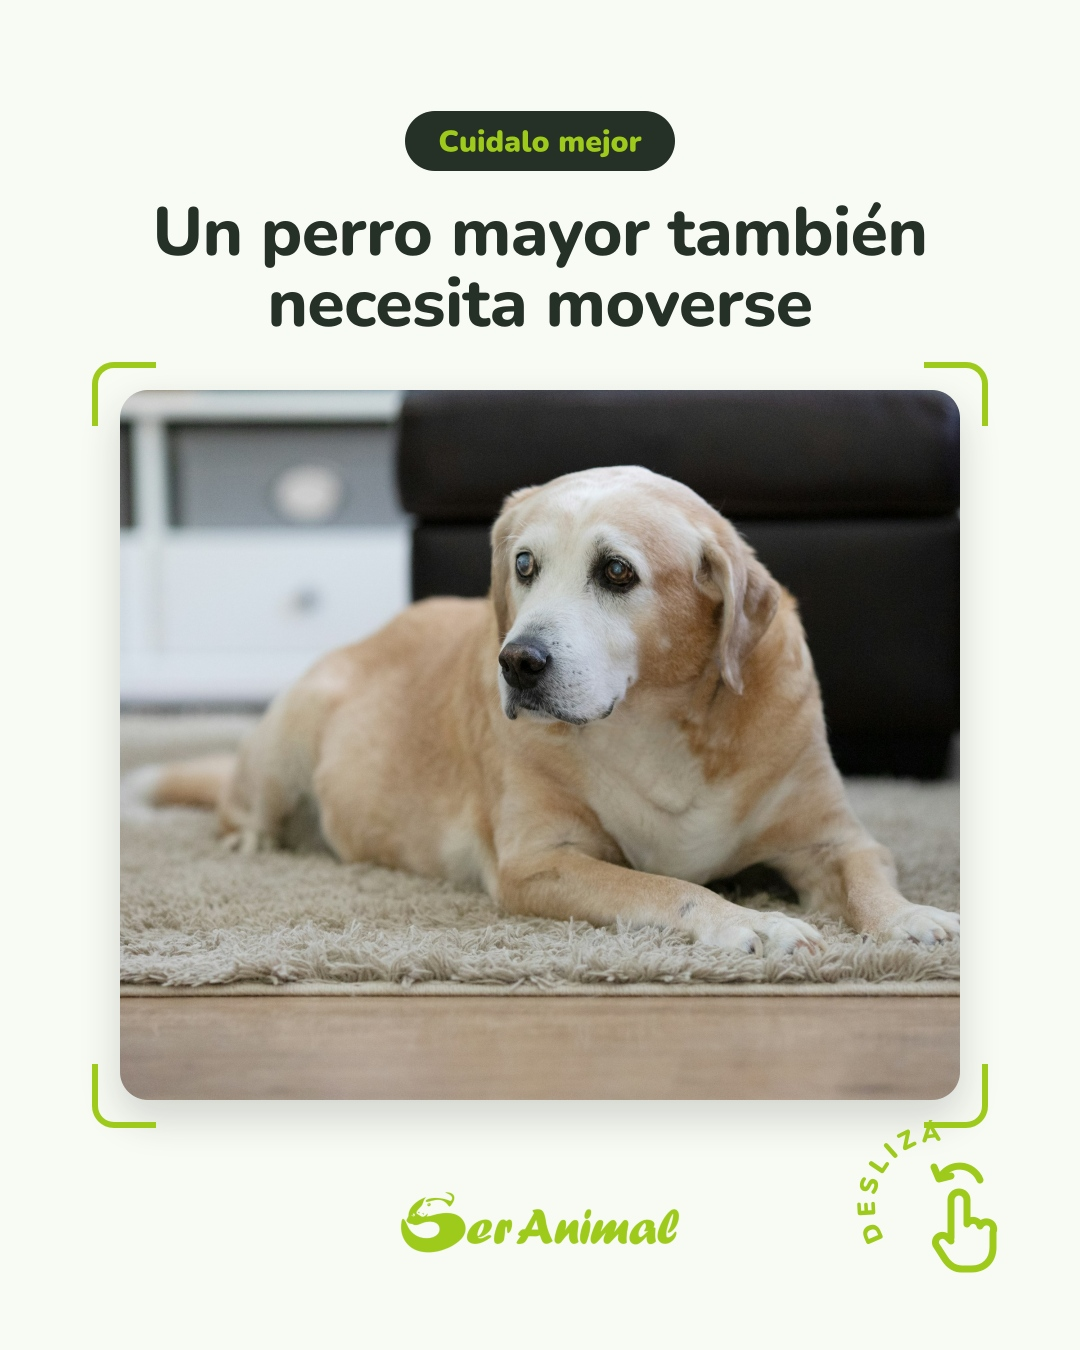
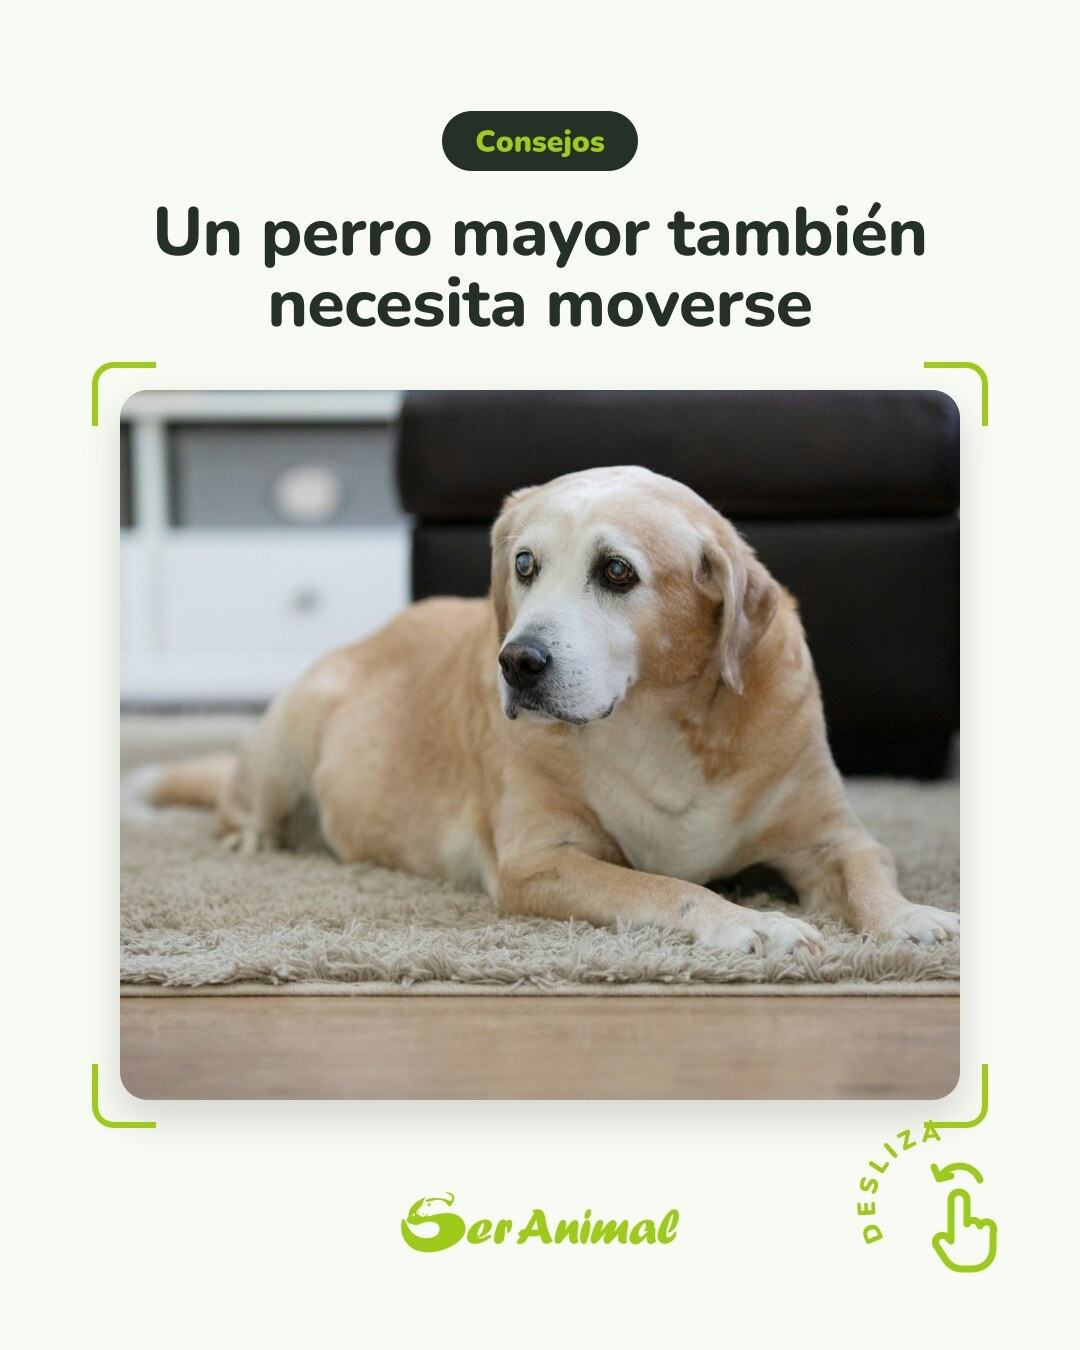
Reemplaza «Cuidalo mejor» por «Consejos» y el pilar «En la tienda» por «Productos»
- Etiqueta nueva etiqueta-consejos en marca/elementos (regenerados SVG, PNG y
  catálogo); se borran etiqueta-cuidalo-mejor y etiqueta-en-la-tienda.
- Regla de tono: nunca retar ni juzgar al dueño (CLAUDE.md, lineamientos y
  Studio).
- Se vuelven a renderizar calor, comedero lento, historias y los ejemplos de
  la guía.

Claude-Session: https://claude.ai/code/session_01UFgb9cPkwjsoNhDLqTBRZN

Changed region(s): [[0.3667, 0.0622, 0.6417, 0.1244]]

diff --git a/studio/functions/api/generate.ts b/studio/functions/api/generate.ts
@@ -13,6 +13,7 @@ const SYSTEM = `Sos el equipo de contenido de Ser Animal, una tienda especializa
 TONO
 - Cercano, claro y concreto, como hablaría alguien del local. Español rioplatense con voseo: «elegí», «buscá», «sumate», «contanos».
 - Mayúscula solo al principio de títulos. Sin exclamaciones de más ni frases vacías («¡¡Elevá la experiencia de tu mascota!!» está mal).
+- Nunca retes ni juzgues al dueño (nada de «Cuidalo mejor» ni frases que den a entender que no cuida a su mascota): los consejos se dan en positivo.
 - No nombres marcas de otras empresas en las slides: el producto se nombra por lo que es (por ejemplo «Juguete clásico de caucho»), aunque el usuario escriba la marca.
 - NUNCA se publican precios de productos, ni en las slides ni en el caption, aunque el usuario los mencione. Tampoco inventes descuentos, plazos, stock ni características. Los únicos montos permitidos son los de los textos fijos de abajo (envíos y pedido programado).
 - Datos de salud o comportamiento animal: solo los que sean ampliamente aceptados por veterinarios. Si no estás seguro de un dato, no lo uses. Nada de diagnósticos ni dosis; ante síntomas, «consultá a tu veterinario».
@@ -51,7 +52,7 @@ ESTRUCTURA DEL CARRUSEL
 - En carruseles de 3 slides o más, la última slide es "cierre": una pregunta o invitación a comentar en "titulo" (máx. 30 caracteres) y una frase corta en "texto". Nunca pongas el WhatsApp, teléfonos ni «pedilo» en las slides: el feed es estético; esos datos van solo en el caption.
 - Fondos de las slides intermedias y del cierre: alternás "blanco" y "verde", empezando por "blanco" después de la portada. El cierre va siempre en "verde".
 - "numero" vale 0 cuando no se usa.
-- "etiqueta": la serie del post, que se ve como pastilla en los estilos "foto-panel", "texto-editorial", "foto-enmarcada", "retrato", "producto-claro" y "aviso". Valores: "sabias-que" (curiosidades), "cuidalo-mejor" (consejos), "familia" (clientes y comunidad), "novedad" (producto nuevo), "aviso" (avisos) o "" (sin etiqueta). Usala en la portada; en las slides interiores, "". Los posts de producto van sin etiqueta (o "novedad" si el producto es nuevo): nunca escribas «En la tienda» en las slides.
+- "etiqueta": la serie del post, que se ve como pastilla en los estilos "foto-panel", "texto-editorial", "foto-enmarcada", "retrato", "producto-claro" y "aviso". Valores: "sabias-que" (curiosidades), "consejos" (consejos), "familia" (clientes y comunidad), "novedad" (producto nuevo), "aviso" (avisos) o "" (sin etiqueta). Usala en la portada; en las slides interiores, "". Los posts de producto van sin etiqueta (o "novedad" si el producto es nuevo): nunca escribas «En la tienda» en las slides.
 - "colores": "" salvo en "producto-ficha".
 - "especie": "perro", "gato", "roedor", "pajaro", "pez" o "". Ponela en "portada-globos", "texto-editorial", "mosaico" y "retrato" cuando el post es de una especie; si no, "".
 - Variá los estilos: no uses siempre el mismo tipo de portada. Los editoriales ("foto-titulo-arriba", "foto-titulo-abajo", "portada-globos", "foto-panel", "texto-editorial", "foto-enmarcada", "foto-cita", "mosaico") le dan aire de revista al feed, como el de Petz. Preferí fotos con personas y sus mascotas.

diff --git a/lineamientos/guia-instagram/index.html b/lineamientos/guia-instagram/index.html
@@ -288,13 +288,13 @@ Pedidos por WhatsApp: 091 380 000</pre>
       </article>
       <article class="pilar">
         <img src="img/p1-calor.jpg" alt="">
-        <div><h3>Cuidalo mejor</h3><span class="frec">1 por semana · carrusel</span>
+        <div><h3>Consejos</h3><span class="frec">1 por semana · carrusel</span>
           <p>Consejos prácticos y de temporada: calor, lluvia, higiene, alimentación. Ante síntomas, siempre «consultá a tu veterinario».</p>
-          <p><b>Portada:</b> pregunta enmarcada, pregunta en globos, foto con panel o foto enmarcada. <b>Etiqueta:</b> Cuidalo mejor.</p></div>
+          <p><b>Portada:</b> pregunta enmarcada, pregunta en globos, foto con panel o foto enmarcada. <b>Etiqueta:</b> Consejos.</p></div>
       </article>
       <article class="pilar">
         <img src="img/p4-producto.jpg" alt="">
-        <div><h3>En la tienda</h3><span class="frec">1 o 2 por semana</span>
+        <div><h3>Productos</h3><span class="frec">1 o 2 por semana</span>
           <p>Productos reales de Ser Animal: novedades, fichas con callouts y producto héroe. Solo datos confirmados, nunca precios ni «pedilo»: se muestran lindos, para inspirar.</p>
           <p><b>Portada:</b> foto de uso, foto limpia, producto héroe o producto sobre fondo claro. <b>Etiqueta:</b> ninguna; «Novedad» solo si el producto es nuevo.</p></div>
       </article>
@@ -307,7 +307,7 @@ Pedidos por WhatsApp: 091 380 000</pre>
     </div>
 
     <div class="ejemplo">
-      <h3>Ejemplo · Cuidalo mejor</h3>
+      <h3>Ejemplo · Consejos</h3>
       <p class="nota">Portada con foto real; después, una idea por slide alternando blanco y verde; cierre verde con una pregunta para comentar.</p>
       <div class="tira">
         <img src="img/calor-1.jpg" alt="Slide 1: ¿Hace demasiado calor para pasear?">
@@ -329,7 +329,7 @@ Pedidos por WhatsApp: 091 380 000</pre>
       </div>
     </div>
     <div class="ejemplo">
-      <h3>Ejemplo · En la tienda (el carrusel preferido)</h3>
+      <h3>Ejemplo · Productos (el carrusel preferido)</h3>
       <p class="nota">Portada linda con el producto en uso y el título bien legible; después, la ficha: el producto solo con sus colores, el nombre, una línea y los datos en pastillas. Sin precio.</p>
       <div class="tira cuatro">
         <img src="img/pechera-1.jpg" alt="Slide 1: Pechera y correa, con el título por detrás de las orejas del husky">
@@ -376,9 +376,9 @@ Pedidos por WhatsApp: 091 380 000</pre>
     <div class="semana">
       <div class="dia post"><b>Lunes</b><span>¿Sabías que…?</span></div>
       <div class="dia"><b>Martes</b><span>Historias: encuesta o pregunta</span></div>
-      <div class="dia post"><b>Miércoles</b><span>En la tienda</span></div>
+      <div class="dia post"><b>Miércoles</b><span>Productos</span></div>
       <div class="dia"><b>Jueves</b><span>Historias: producto en uso</span></div>
-      <div class="dia post"><b>Viernes</b><span>Cuidalo mejor</span></div>
+      <div class="dia post"><b>Viernes</b><span>Consejos</span></div>
       <div class="dia"><b>Sábado</b><span>Historias: compartir menciones</span></div>
       <div class="dia post"><b>Domingo</b><span>La familia Ser Animal</span></div>
     </div>

diff --git a/studio/src/spec.ts b/studio/src/spec.ts
@@ -54,13 +54,13 @@ export const NOMBRE_TIPO: Record<TipoSlide, string> = {
 };
 
 // Etiqueta de serie (pilar de contenido) y personaje de especie: los dos son opcionales ("").
-export const ETIQUETAS = ["", "aviso", "novedad", "sabias-que", "cuidalo-mejor", "familia"] as const;
+export const ETIQUETAS = ["", "aviso", "novedad", "sabias-que", "consejos", "familia"] as const;
 export const NOMBRE_ETIQUETA: Record<(typeof ETIQUETAS)[number], string> = {
   "": "Sin etiqueta",
   aviso: "Aviso",
   novedad: "Novedad",
   "sabias-que": "¿Sabías que…?",
-  "cuidalo-mejor": "Cuidalo mejor",
+  "consejos": "Consejos",
   familia: "La familia Ser Animal",
 };
 export const ESPECIES = ["", "perro", "gato", "roedor", "pajaro", "pez"] as const;

diff --git a/posts/2026-11-historias/fuente/index.html b/posts/2026-11-historias/fuente/index.html
@@ -73,7 +73,7 @@
   <img class="foto" src="assets/foto-lento.jpg" alt="">
   <div class="velo-arriba"></div>
   <div class="bloque">
-    <img class="etiqueta" src="assets/etiqueta-cuidalo-mejor.svg" alt="">
+    <img class="etiqueta" src="assets/etiqueta-consejos.svg" alt="">
     <div class="h" style="margin-top:34px">¿Tu perro come <em>muy rápido</em>?</div>
   </div>
   <div class="zona">Encuesta: Sí / No</div>

diff --git a/marca/elementos/generar.py b/marca/elementos/generar.py
@@ -39,8 +39,7 @@ ESPECIES = {
 }
 PILARES = {
     "sabias-que": "¿Sabías que…?",
-    "cuidalo-mejor": "Cuidalo mejor",
-    "en-la-tienda": "En la tienda",
+    "consejos": "Consejos",
     "familia": "La familia Ser Animal",
 }
 SOMBRA = '<filter id="sombra" x="-20%" y="-20%" width="140%" height="140%"><feDropShadow dx="0" dy="2" stdDeviation="3" flood-color="#000" flood-opacity=".35"/></filter>'

diff --git a/marca/elementos/README.md b/marca/elementos/README.md
@@ -17,7 +17,7 @@ Piezas fijas para que todos los posts usen exactamente los mismos recursos. Ver 
 | Callouts | `callout-vertical-*`, `callout-horizontal-*` | Ficha de producto: el punto toca el producto. Blanco sobre verde; oscuro sobre blanco. Se pueden rotar. Máximo 3 por slide. |
 | Chips de especie | `chip-perros`, `chip-gatos`, `chip-roedores`, `chip-pajaros`, `chip-peces` | Para indicar la especie del post. Es el único lugar donde van los colores de especie. |
 | Pastillas | `pastilla-seranimal`, `pastilla-whatsapp`, `pastilla-pedilo`, `pastilla-atencion` | Cierres y llamados a la acción. «Pedilo por WhatsApp» va en el producto sobre fondo claro (en redes nunca hay precios). |
-| Etiquetas | `etiqueta-aviso`, `etiqueta-novedad`, `etiqueta-sabias-que`, `etiqueta-cuidalo-mejor`, `etiqueta-en-la-tienda`, `etiqueta-familia` | Etiqueta de serie (una por pilar), arriba del título o arriba a la izquierda. Sirven sobre blanco, verde y foto. |
+| Etiquetas | `etiqueta-aviso`, `etiqueta-novedad`, `etiqueta-sabias-que`, `etiqueta-consejos`, `etiqueta-familia` | Etiqueta de serie (una por pilar), arriba del título o arriba a la izquierda. Sirven sobre blanco, verde y foto. |
 | Flechas | `flecha-circulo-blanco`, `-verde`, `-oscuro`, `-contorno`; `flecha-linea-oscura`, `-blanca` | Círculo: avanzar (estilo «foto con panel», en el borde entre foto y panel). Línea: solo en piezas sueltas sin «Deslizá» (nunca las dos indicaciones juntas). |
 | Personajes | `png/personaje-perro`, `-gato`, `-roedor`, `-pajaro`, `-pez` | Cabezas de las ilustraciones de especie, recortadas. Se asoman detrás de los globos de texto o van arriba en el texto editorial. Son PNG (ilustración a color). |
 | Asistente | `png/asistente-circulo.png` | Atención al cliente: siempre en círculo con borde verde. |

diff --git a/lineamientos/estilos-de-post.md b/lineamientos/estilos-de-post.md
@@ -162,7 +162,7 @@ Todos estos elementos están listos en **`marca/elementos/`** (SVG vectorial y P
 
 Inspirados en el feed de Petz (`lineamientos/referencias/`), pero con la marca de Ser Animal: verde, Nunito 900, DM Sans y los personajes de especie. Le dan al feed un aire de revista: mucho aire, globos y tarjetas blancas, palabras subrayadas y etiquetas de serie. Elementos nuevos: `etiqueta-<pilar>`, `flecha-circulo-*`, `flecha-linea-*` y `personaje-<especie>`.
 
-**Etiquetas de serie.** Cada pilar tiene su pastilla (`etiqueta-sabias-que`, `etiqueta-cuidalo-mejor`, `etiqueta-familia`), como «Guia de Raças» o «Assinatura Petz». Va arriba a la izquierda o arriba del título. Así el seguidor reconoce la serie de un vistazo. **Los posts de producto no llevan etiqueta:** nunca se pone «En la tienda» en las imágenes (solo «Novedad» si el producto es nuevo).
+**Etiquetas de serie.** Cada pilar tiene su pastilla (`etiqueta-sabias-que`, `etiqueta-consejos`, `etiqueta-familia`), como «Guia de Raças» o «Assinatura Petz». Va arriba a la izquierda o arriba del título. Así el seguidor reconoce la serie de un vistazo. **Nunca «Cuidalo mejor»** ni nada que suene a reto al dueño: la serie de consejos se llama «Consejos». **Los posts de producto no llevan etiqueta:** nunca se pone «En la tienda» en las imágenes (solo «Novedad» si el producto es nuevo).
 
 ### Estilo 9 · Pregunta en globos
 ![](estilos/9-pregunta-en-globos.jpg)

diff --git a/posts/2026-11-comedero-lento/texto.md b/posts/2026-11-comedero-lento/texto.md
@@ -1,9 +1,9 @@
 # Comedero lento
 
-**Pilar:** En la tienda. Reemplaza al alimento Brit Premium: la bolsa es toda marca y no se puede mostrar sin que se vea. **Formato:** carrusel de 3 slides, 1080×1350.
+**Pilar:** Productos. Reemplaza al alimento Brit Premium: la bolsa es toda marca y no se puede mostrar sin que se vea. **Formato:** carrusel de 3 slides, 1080×1350.
 1. Portada con foto y panel verde (estilo 10): «¿Tu perro come muy rápido?». Imagen de Higgsfield (Nano Banana Pro) con las fotos reales del comedero como referencia.
 2. Ficha de producto (estilo 18). Foto de estudio generada a partir de la foto real del comedero.
-3. Título editorial arriba sobre foto real (estilo 14), etiqueta «Cuidalo mejor»: «Comer más despacio *también es cuidarlo*». Foto: Gayatri Malhotra (Unsplash).
+3. Título editorial arriba sobre foto real (estilo 14), etiqueta «Consejos»: «Más tiempo para *disfrutar cada bocado*». Foto: Gayatri Malhotra (Unsplash).
 
 **Producto:** Comedero lento para perros (seranimal.com.uy). Datos de la web: ayuda a comer más lento; las ranuras lo entretienen; al lamer, raspa dientes y lengua y ayuda al cuidado bucal. Sin precio.
 

diff --git a/CLAUDE.md b/CLAUDE.md
@@ -46,6 +46,7 @@ Seguir siempre `lineamientos/estilos-de-post.md`. Resumen:
 - **Nunca se publican precios** de productos en redes (ni en la imagen ni en el posteo). Los únicos montos permitidos son los de los textos fijos de envíos y pedido programado.
 - **Sin marcas a la vista:** ni logos ni textos de otras marcas en las fotos (se borran con IA) y, en títulos y fichas, el producto se nombra por lo que es, no por la marca. Bolsas de alimento y productos que son pura marca no van al feed.
 - **El feed es estético:** las imágenes no llevan «Pedilo por WhatsApp», teléfonos ni llamados a la venta. El WhatsApp va, si hace falta, solo en el texto del posteo.
+- Nunca retar ni juzgar al dueño: nada de «Cuidalo mejor», «¿Lo estás haciendo bien?» ni frases que den a entender que no cuida a su mascota. Los consejos se dan en positivo.
 - No inventar descuentos, plazos ni datos. Sin exclamaciones de más ni frases vacías.
 
 ## Textos que siempre se escriben igual

diff --git a/posts/2026-11-juguete-palta/texto.md b/posts/2026-11-juguete-palta/texto.md
@@ -1,6 +1,6 @@
 # Juguete palta con catnip
 
-**Pilar:** En la tienda. **Formato:** carrusel de 3 slides, 1080×1350.
+**Pilar:** Productos. **Formato:** carrusel de 3 slides, 1080×1350.
 1. Portada con título editorial abajo (estilo 15): «Una palta *para tu gato*» + «Con bola de catnip natural». Imagen de Higgsfield (Nano Banana Pro) con la foto real como referencia; se borró el texto impreso del juguete.
 2. Ficha de producto (estilo 18), sin texto de marca en la foto.
 3. Título editorial arriba sobre foto real (estilo 14), etiqueta «¿Sabías que…?»: «El catnip *no le hace efecto* a todos los gatos». Foto: Mikhail Volkov (Unsplash).

diff --git a/posts/2026-11-cama-tunel/texto.md b/posts/2026-11-cama-tunel/texto.md
@@ -1,6 +1,6 @@
 # Cama Tunnel Tube
 
-**Pilar:** En la tienda. **Formato:** carrusel de 3 slides, 1080×1350.
+**Pilar:** Productos. **Formato:** carrusel de 3 slides, 1080×1350.
 1. Portada con foto enmarcada sobre verde (estilo 12): «Para esconderse, jugar y dormir». Imagen de Higgsfield (Nano Banana Pro) con la foto real como referencia; se borró la etiqueta de la tela.
 2. Ficha de producto (estilo 18) con los tres colores, sin etiquetas de marca.
 3. Título editorial abajo sobre foto real (estilo 15), etiqueta «¿Sabías que…?»: «Un rincón para esconderse *le da tranquilidad*». Foto: Elena Kloppenburg (Unsplash).

diff --git a/posts/2026-11-rascador-torre/texto.md b/posts/2026-11-rascador-torre/texto.md
@@ -1,6 +1,6 @@
 # Rascador torre 7 niveles
 
-**Pilar:** En la tienda. **Formato:** carrusel de 3 slides, 1080×1350.
+**Pilar:** Productos. **Formato:** carrusel de 3 slides, 1080×1350.
 1. Portada con pregunta en globos (estilo 9) y el gatito asomando: «Para trepar, jugar y descansar en altura». Imagen de Higgsfield (Nano Banana Pro) con la foto real del rascador como referencia.
 2. Ficha de producto (estilo 18).
 3. Título editorial abajo sobre foto real (estilo 15), etiqueta «¿Sabías que…?»: «A los gatos les gusta mirar todo *desde arriba*». Foto: Madalyn Cox (Unsplash).
